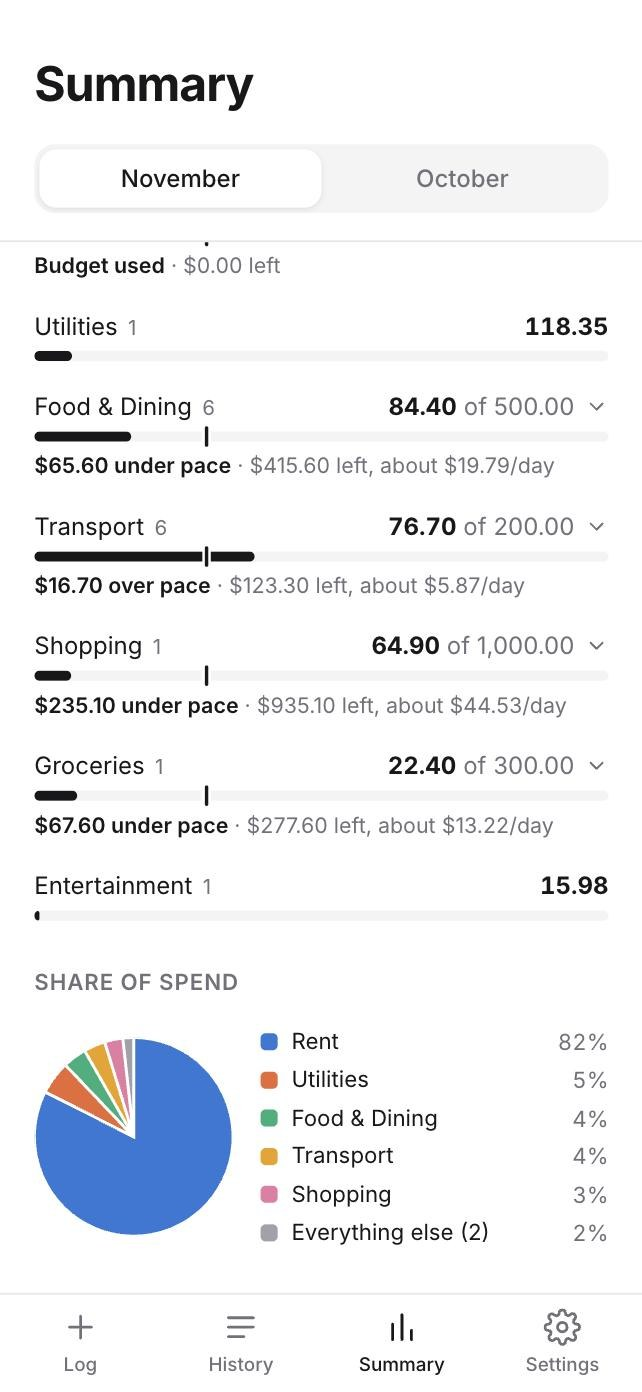
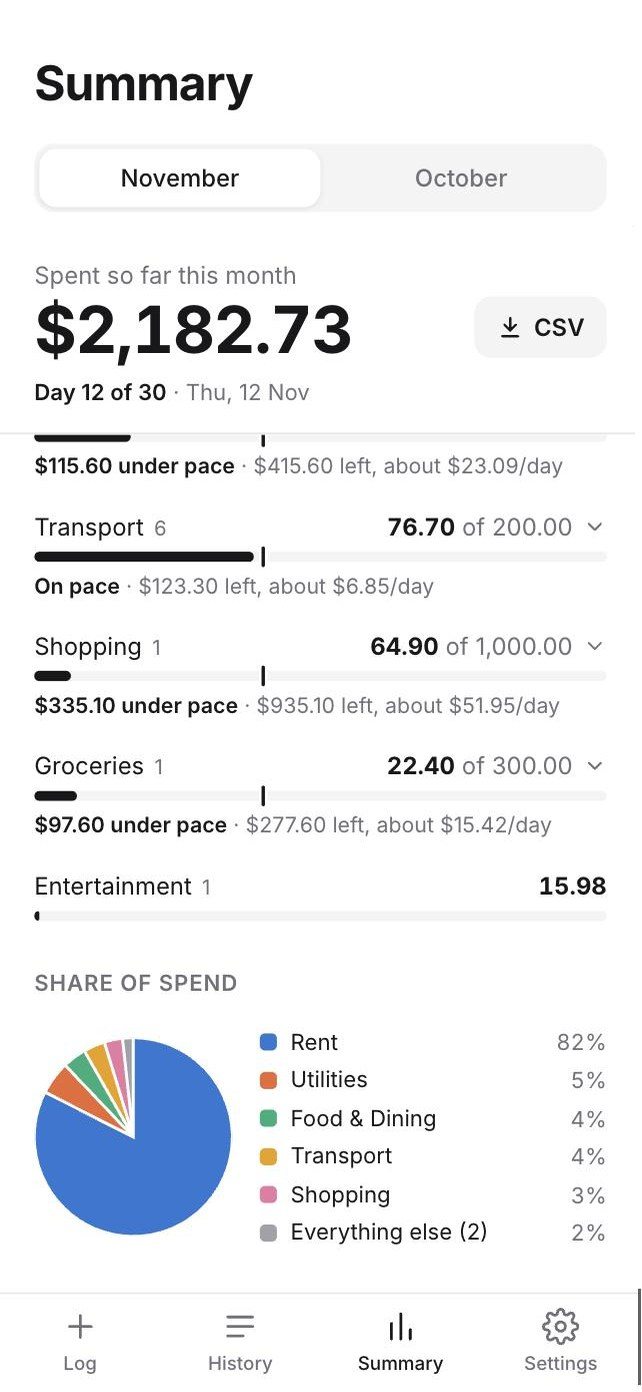
Version 1.1.3: keep Summary's total in place while scrolling
The pinned top of Summary now also holds the total, the CSV button and
the day line; a phone held sideways is unchanged. The comparison with
the month before is removed. Specification v0.40, Test Plan v1.8,
user guide text and Summary screenshots updated.

diff --git a/web/components/screens/summary.tsx b/web/components/screens/summary.tsx
@@ -33,7 +33,6 @@ export default function SummaryScreen({ cache, categories }: { cache: ApiCache; 
   const [downloadNote, setDownloadNote] = useState("");
   const shareMode = useSyncExternalStore(noSubscribe, sharesFiles, () => false);
   const month = monthKey(offset);
-  const prevMonth = monthKey(offset - 1);
   const isCurrent = offset === 0;
   const today = localToday();
   const day = Number(today.slice(8));
@@ -43,13 +42,10 @@ export default function SummaryScreen({ cache, categories }: { cache: ApiCache; 
   const rows: (SummaryRow | PaceRow)[] | undefined = isCurrent
     ? currentExpenses && paceRows(currentExpenses, categories, days)
     : summaryRows;
-  const prev = useCached<SummaryRow[]>(cache, summaryUrl(prevMonth));
   const spentRows = rows?.filter((r) => r.total > 0);
 
   const total = rows?.reduce((s, r) => s + r.total, 0) ?? 0;
-  const prevTotal = prev?.reduce((s, r) => s + r.total, 0) ?? 0;
   const max = Math.max(...(rows ?? []).map((r) => r.total), 0) || 1;
-  const diff = total - prevTotal;
 
   // For the share sheet, the file must be ready the moment CSV is tapped, so it's fetched in advance:
   // once per month shown, and again only after a change made in the app (Specification 4.5)
@@ -107,37 +103,33 @@ export default function SummaryScreen({ cache, categories }: { cache: ApiCache; 
           <button className={offset === 0 ? "on" : ""} onClick={() => showMonth(0)}>{monthLabel(monthKey(0), { month: "long" })}</button>
           <button className={offset === -1 ? "on" : ""} onClick={() => showMonth(-1)}>{monthLabel(monthKey(-1), { month: "long" })}</button>
         </div>
-      </div>
-      <div className="total">
-        <div className="total-row">
-          <div>
-            <div className="sub">{offset === 0 ? "Spent so far this month" : `Spent in ${monthLabel(month)}`}</div>
-            <div className="big">${fmt(total)}</div>
+        {/* The total stays in view with the month switcher while the categories scroll (Specification step 8) */}
+        <div className="total">
+          <div className="total-row">
+            <div>
+              <div className="sub">{offset === 0 ? "Spent so far this month" : `Spent in ${monthLabel(month)}`}</div>
+              <div className="big">${fmt(total)}</div>
+            </div>
+            {/* Downloads the month shown as a CSV file (Specification 4.5) */}
+            <a
+              className="csv-button"
+              href={`/api/expenses/export?month=${month}`}
+              download={`hercules-expenses-${month}.csv`}
+              onClick={downloadCsv}
+              aria-label={`Download ${monthLabel(month)} expenses as a CSV file`}
+            >
+              <svg viewBox="0 0 24 24" fill="none" stroke="currentColor" strokeWidth="2" strokeLinecap="round" strokeLinejoin="round" aria-hidden="true">
+                <path d="M12 4v11M7 10l5 5 5-5M5 20h14" />
+              </svg>
+              CSV
+            </a>
           </div>
-          {/* Downloads the month shown as a CSV file (Specification 4.5) */}
-          <a
-            className="csv-button"
-            href={`/api/expenses/export?month=${month}`}
-            download={`hercules-expenses-${month}.csv`}
-            onClick={downloadCsv}
-            aria-label={`Download ${monthLabel(month)} expenses as a CSV file`}
-          >
-            <svg viewBox="0 0 24 24" fill="none" stroke="currentColor" strokeWidth="2" strokeLinecap="round" strokeLinejoin="round" aria-hidden="true">
-              <path d="M12 4v11M7 10l5 5 5-5M5 20h14" />
-            </svg>
-            CSV
-          </a>
+          {isCurrent && (
+            <div className="dayline">
+              <b>Day {day} of {days}</b> · {shortDay(monthKey(0), day)}
+            </div>
+          )}
         </div>
-        {isCurrent && (
-          <div className="dayline">
-            <b>Day {day} of {days}</b> · {shortDay(monthKey(0), day)}
-          </div>
-        )}
-        {!!prevTotal && (
-          <div className="delta">
-            {diff >= 0 ? "+" : "−"}${fmt(Math.abs(diff))} vs {monthLabel(prevMonth, { month: "long" })}
-          </div>
-        )}
       </div>
       <div className="columns">
         <div>

diff --git a/Project Hercules - How Hercules Works.html b/Project Hercules - How Hercules Works.html
@@ -240,8 +240,7 @@ html { scroll-behavior: smooth; }
 .m .srow .chev { color: var(--m-muted); font-size: 15px; }
 .m .srow.out .t { color: var(--m-bad); }
 .m .ver { text-align: center; color: var(--m-muted); font-size: 10px; margin-top: 18px; line-height: 1.6; }
-/* Summary comparison line and the Retired row */
-.m .mdelta { font-size: 11px; color: var(--m-muted); margin-top: 2px; }
+/* The Retired row */
 .m .mretired { display: flex; justify-content: space-between; padding: 14px 0 6px; border-bottom: 1px solid var(--m-line); font-size: 10px; font-weight: 600; color: var(--m-muted); letter-spacing: .06em; }
 /* CSV button beside the month's total */
 .m .mtotal { display: flex; justify-content: space-between; align-items: flex-end; gap: 8px; }
@@ -294,7 +293,7 @@ dl.faq dd { margin: 2px 0 0; color: var(--ink-2); }
       <div class="meta">
         <span><b>Who it's for:</b> invited family and friends</span>
         <span><b>Works on:</b> phone, tablet and computer</span>
-        <span><b>Updated:</b> 10 November 2026</span>
+        <span><b>Updated:</b> 12 November 2026</span>
       </div>
     </header>
 
@@ -404,7 +403,7 @@ dl.faq dd { margin: 2px 0 0; color: var(--ink-2); }
     <h2 id="summary">Summary</h2>
     <p>Summary shows this month and last month. Switch between them with the buttons at the top.</p>
     <ul class="plain">
-      <li><b>The total</b> spent in the month, and how it compares with the month before.</li>
+      <li><b>The total</b> spent in the month. It stays at the top while you scroll, with the month buttons and <b>CSV</b>.</li>
       <li><b>A bar for each category</b> you've spent in, largest first. If the category has a budget, the bar fills up against it and reads, for example, "210.00 of 500.00". It turns red once you go over.</li>
       <li><b>Share of spend</b>, a pie chart of where the money went. With more than six categories, the smaller ones are grouped as "Everything else".</li>
       <li><b>Spending pace</b>, this month only, for categories with a budget. See the next section.</li>
@@ -417,7 +416,7 @@ dl.faq dd { margin: 2px 0 0; color: var(--ink-2); }
       </figure>
       <figure>
         <div class="phone shot"><img src="guide-images/summary-pie.jpg" alt="Summary further down, with pace notes and the Share of spend pie chart" width="642" height="1392" loading="lazy"></div>
-        <figcaption><b>Further down.</b> Each budgeted category shows its pace, and Share of spend shows where the money went.</figcaption>
+        <figcaption><b>Further down.</b> The total stays at the top as you scroll. Each budgeted category shows its pace, and Share of spend shows where the money went.</figcaption>
       </figure>
     </div>
 

diff --git a/web/app/globals.css b/web/app/globals.css
@@ -141,7 +141,6 @@ textarea::placeholder { color: var(--muted); }
 .seg button.on { background: var(--surface); color: var(--text); box-shadow: 0 1px 3px rgba(0,0,0,.08); }
 .total { margin-top: 24px; }
 .total .big { font-size: 38px; font-weight: 700; letter-spacing: -0.02em; font-variant-numeric: tabular-nums; }
-.total .delta { font-size: 13px; color: var(--muted); margin-top: 2px; }
 /* CSV download beside the month's total (Specification 4.5) */
 .total-row { display: flex; justify-content: space-between; align-items: flex-end; gap: 12px; }
 .csv-button { display: inline-flex; align-items: center; gap: 6px; height: 36px; padding: 0 13px; border-radius: 10px; background: var(--soft); color: var(--text);

diff --git a/Project Hercules - Specification.md b/Project Hercules - Specification.md
@@ -1,8 +1,8 @@
 # Project Hercules — Specification Sheet: "Log an Expense" Flow
 
 ```
-Version 0.39 · Draft 
-Last Reviewed: 10 November 2026
+Version 0.40 · Draft 
+Last Reviewed: 12 November 2026
 Produced with AI Assistance (Claude Code)
 ```
 
@@ -49,6 +49,7 @@ Produced with AI Assistance (Claude Code)
 | 0.37 | 2026-11-09 | Lionel Lam | Integrity check: open questions updated for the web app (user model; raw text stored in the expense row) |
 | 0.38 | 2026-11-10 | Lionel Lam | CSV download opens the iPhone share sheet when Hercules is opened from the home screen (Section 4.5) |
 | 0.39 | 2026-11-10 | Lionel Lam | The CSV prepared for the iPhone share sheet is kept while the app is open and refreshed only after changes (Section 4.5) |
+| 0.40 | 2026-11-12 | Lionel Lam | Summary's fixed section also holds the month's total, the CSV button and the day of the month; the comparison with the month before is removed (process flow step 8) |
 
 ---
 
@@ -93,7 +94,7 @@ This spec exists to align the team before the process flow diagram (UPN) and fea
 5. **Confirmation screen is presented** — parsed fields shown as editable form elements (not a static summary).
 6. **User reviews and optionally edits fields directly** — this is the human-in-the-loop step. No re-prompting of the model occurs; corrections are direct field edits.
 7. **User confirms/saves** — the system checks the fields, then writes the structured record, the original raw text, and a flag indicating whether any edit occurred. The date must be a real calendar date in the years 2000 to 2099 (so not, for example, 31 February); otherwise the save is refused with a message to check the fields.
-8. **Record is available for viewing** — in History and Summary, and in the "Today" list on the Log screen for expenses dated today. A saved record can be reopened from History or from the Today list in the same editable card to be edited or deleted (soft delete, after a confirmation, with Undo; see Section 4.2). Below the Today list, the Log screen shows today's total spend broken down by category (amounts are added without currency conversion, as in Summary). For the current month, a category with a budget shows its spend as "x of budget", with its bar showing the share of the budget used (full at or above 100%, and red once spend is over the budget). Each budgeted bar also has a marker at the amount expected by today (budget × day of month ÷ days in month, counting today), and a note: "Over budget by $X" (red), "Budget used", "On pace" (within 5% of the budget either side of the expected amount), or "$X over/under pace", followed by the amount left and about how much a day remains (see Section 4.1 for the exact rules). Tapping a budgeted category opens a burn-up chart of its running total against the budget spread evenly over the month, with a "Daily figures" table. Categories with no spending in the month are not listed, whether or not they have a budget. The previous month is shown without pace. Other bars show the category's spend relative to the month's largest category. Below its category list, Summary shows a pie chart of the month's spend by category for any month with expenses: up to six slices, with any beyond the largest five grouped as "Everything else". History and Summary keep their heading and month control fixed at the top while the content below scrolls; on History, a search field sits below the month control (Section 4.3). Screens show the last-loaded data straight away and refresh it in the background; saving, editing or deleting a record reloads it. A month's expenses can be downloaded as a CSV file from Summary (Section 4.5).
+8. **Record is available for viewing** — in History and Summary, and in the "Today" list on the Log screen for expenses dated today. A saved record can be reopened from History or from the Today list in the same editable card to be edited or deleted (soft delete, after a confirmation, with Undo; see Section 4.2). Below the Today list, the Log screen shows today's total spend broken down by category (amounts are added without currency conversion, as in Summary). For the current month, a category with a budget shows its spend as "x of budget", with its bar showing the share of the budget used (full at or above 100%, and red once spend is over the budget). Each budgeted bar also has a marker at the amount expected by today (budget × day of month ÷ days in month, counting today), and a note: "Over budget by $X" (red), "Budget used", "On pace" (within 5% of the budget either side of the expected amount), or "$X over/under pace", followed by the amount left and about how much a day remains (see Section 4.1 for the exact rules). Tapping a budgeted category opens a burn-up chart of its running total against the budget spread evenly over the month, with a "Daily figures" table. Categories with no spending in the month are not listed, whether or not they have a budget. The previous month is shown without pace. Other bars show the category's spend relative to the month's largest category. Below its category list, Summary shows a pie chart of the month's spend by category for any month with expenses: up to six slices, with any beyond the largest five grouped as "Everything else". History and Summary keep their heading and month control fixed at the top while the content below scrolls; on History, a search field sits below the month control (Section 4.3). On Summary, the fixed section also holds the month's total with the **CSV** button and, for the current month, the day of the month ("Day 12 of 30 · Thu, 12 Nov"), so the total stays in view while scrolling through the categories. Summary doesn't compare the total with the month before. On a short screen, such as a phone held sideways (under 500 pixels tall), nothing is fixed on any screen, so there is room to scroll. Screens show the last-loaded data straight away and refresh it in the background; saving, editing or deleting a record reloads it. A month's expenses can be downloaded as a CSV file from Summary (Section 4.5).
 
 ### 4.1 Spending Pace Rules (Summary, Current Month)
 

diff --git a/Project Hercules - Test Plan.md b/Project Hercules - Test Plan.md
@@ -1,8 +1,8 @@
 # Project Hercules — Test Plan: Web App v1
 
 ```
-Version 1.7 · Draft
-Last Reviewed: 10 November 2026
+Version 1.8 · Draft
+Last Reviewed: 12 November 2026
 Produced with AI Assistance (Claude Code)
 ```
 
@@ -18,6 +18,7 @@ Produced with AI Assistance (Claude Code)
 | 1.5 | 2026-11-09 | Lionel Lam | Integrity check: after-deploy check S-08 for the CSV download |
 | 1.6 | 2026-11-10 | Lionel Lam | R-10: CSV from the iPhone home-screen app uses the share sheet |
 | 1.7 | 2026-11-10 | Lionel Lam | Integrity check: new R-11 (the prepared CSV is refreshed after a change, 1.1.2); S-08 covers the home-screen app |
+| 1.8 | 2026-11-12 | Lionel Lam | Summary's total stays in place while scrolling (new H-10); no comparison with the month before (H-01, H-02); M-03 covers a phone held sideways |
 
 ---
 
@@ -168,8 +169,8 @@ Use a month with several expenses, such as one filled with sample data.
 
 | ID | Test | Steps | Expected result |
 |---|---|---|---|
-| H-01 | This month | Open **Summary** | "Spent so far this month", the total, "Day X of Y" with today's date, and how it compares with last month ("+$… vs October" or "−$…") |
-| H-02 | Last month | Tap last month's name at the top | "Spent in [month]", that month's total, compared with the month before. No pace notes |
+| H-01 | This month | Open **Summary** | "Spent so far this month", the total with a **CSV** button beside it, and "Day X of Y" with today's date. There is no comparison with last month |
+| H-02 | Last month | Tap last month's name at the top | "Spent in [month]" and that month's total. No day line, no comparison with the month before and no pace notes |
 | H-03 | Totals match History | Add up a month's amounts in History (or use a search for each category) | Each category's figure on Summary matches |
 | H-04 | Only categories with spending | Have a category with a budget but no spending this month | It isn't listed on Summary |
 | H-05 | Bars without a budget | Look at a category with no budget | Its bar is relative to the month's largest category |
@@ -177,6 +178,7 @@ Use a month with several expenses, such as one filled with sample data.
 | H-07 | Over budget is red | Make a `zz-test-` category with a 10.00 budget and log `[TEST]` expenses totalling 12.00 in it | Its bar is full and red, with "Over budget by $2.00" in red and a warning icon |
 | H-08 | Pie chart | Look below the category list | "Share of spend" with up to six slices and percentages. With more than six categories, the smaller ones are grouped as "Everything else (n)" |
 | H-09 | Future-dated expense | Save a `[TEST]` expense dated later this month | It counts towards this month's total and pace straight away |
+| H-10 | Total stays in place | On a phone held upright (and on a tablet or computer), scroll Summary down to the pie chart, on this month and last month | The heading, month switcher, total, **CSV** button and (this month) day line stay at the top, with a thin line below them; the categories scroll underneath. **CSV** still works while scrolled |
 
 ### I. Spending Pace (This Month)
 
@@ -243,7 +245,7 @@ To set up I-01 to I-05: create a `zz-test-` category with a $300 budget and log 
 |---|---|---|---|
 | M-01 | Light and dark | Settings → Appearance → **Light**, then **Dark** | The app switches theme at once. Reload: the choice is kept on that device |
 | M-02 | System follows the device | Settings → Appearance → **System**, then switch the device between light and dark | The app follows the device. A new device starts on System |
-| M-03 | Pinned tops | Scroll on each of the four tabs | Each tab's heading and main control stay at the top |
+| M-03 | Pinned tops | Scroll on each of the four tabs; then hold a phone sideways and scroll again | Upright, each tab's heading and main control stay at the top (on Summary, also the total). Sideways on a phone, nothing stays at the top |
 | M-04 | Phone layout | Use a phone, or a browser window narrower than 768 pixels | One column; edit sheets slide up from the bottom |
 | M-05 | Tablet and computer | Use windows 768, 1,024 and 1,280 pixels wide or more | The app widens to about 820, 920 and 1,000 pixels; Log and Summary show two columns; edit sheets and confirmations open as centred dialogs |
 | M-06 | No sideways scrolling | Check each screen at phone width | Nothing makes the page scroll sideways |

diff --git a/WORKLOG.md b/WORKLOG.md
@@ -4,7 +4,7 @@
 Maintained by: Lionel Lam Song Poh, James Wong
 Purpose: Record of work done, decisions made, challenges encountered, and assumptions held —
 to serve as a lessons learned reference for current and future contributors.
-Last updated: 10 November 2026
+Last updated: 12 November 2026
 ```
 
 ---
@@ -1054,3 +1054,18 @@ Last updated: 10 November 2026
   4. Work log: the 9 November "User Guide: Owner Not Named" entry read as if three mentions of "the app owner" remained in the guide; a note now says only the invitation mention remains.
 - Documents only, so the app version stays at 1.1.2.
 - **Confirmed (10 November 2026):** the owner ran the new test R-11 on their phone and it passed: after logging a test expense, the file shared from Summary included it.
+
+---
+
+## 12 November 2026 — Version 1.1.3: Summary Total Stays in Place
+
+### What Was Done
+- At the owner's request, Summary's total now stays at the top while scrolling. The section that already stayed in place (heading and month switcher) now also holds "Spent so far this month" (or "Spent in [month]"), the total, the **CSV** button and, for this month, the day line ("Day 12 of 30 · Thu, 12 Nov"). The thin line under it moved down accordingly.
+- Before building, mockups of the real app (local demo account) were shown at phone upright and sideways, iPad upright and sideways, and desktop sizes. The owner chose to:
+  - leave a phone held sideways as it was, with nothing staying in place (the existing rule for screens under 500 pixels tall);
+  - keep it in place on an iPad held sideways, which is tall enough;
+  - remove the "+$… vs October" comparison line everywhere, to keep the top compact.
+- With the comparison gone, Summary no longer requests the totals for the month before the one shown (for example September, when viewing October), saving one request.
+- On a phone held upright, the fixed section takes about 31% of the screen (253 of 812 points). Shrinking it while scrolling was mentioned as a later option, not built.
+- Version **1.1.3** (a small change to an existing screen), with a changelog entry. Updated the Specification (v0.40, process flow step 8), Test Plan (v1.8: H-01 and H-02 without the comparison, new H-10, M-03 covers a phone held sideways) and the user guide (the Summary text, a caption and both Summary screenshots, retaken from the demo account).
+- Tested locally at 375×812, 812×375, 768×1024, 1024×768 and 1280×800, in light and dark mode, on this month and last month: the block stays at the top when scrolled, except on a phone held sideways; the comparison line no longer appears; **CSV** still links to the month shown. Type-check, lint and a production build passed. The demo account was allowed on the local app only while the mockups and screenshots were taken, then removed; the temporary mockup page was deleted. No data was changed.

diff --git a/CHANGELOG.md b/CHANGELOG.md
@@ -6,6 +6,14 @@ Versions follow [semantic versioning](https://semver.org): **major** for a chang
 
 ---
 
+## 1.1.3 — 12 November 2026
+
+**Improved**
+- On Summary, the month's total, the **CSV** button and the day of the month now stay at the top with the month switcher while you scroll through the categories. On a phone held sideways, nothing stays at the top, as before.
+- Summary no longer compares the total with the month before ("+$… vs October"), to keep the top compact.
+
+---
+
 ## 1.1.2 — 10 November 2026
 
 **Improved**
